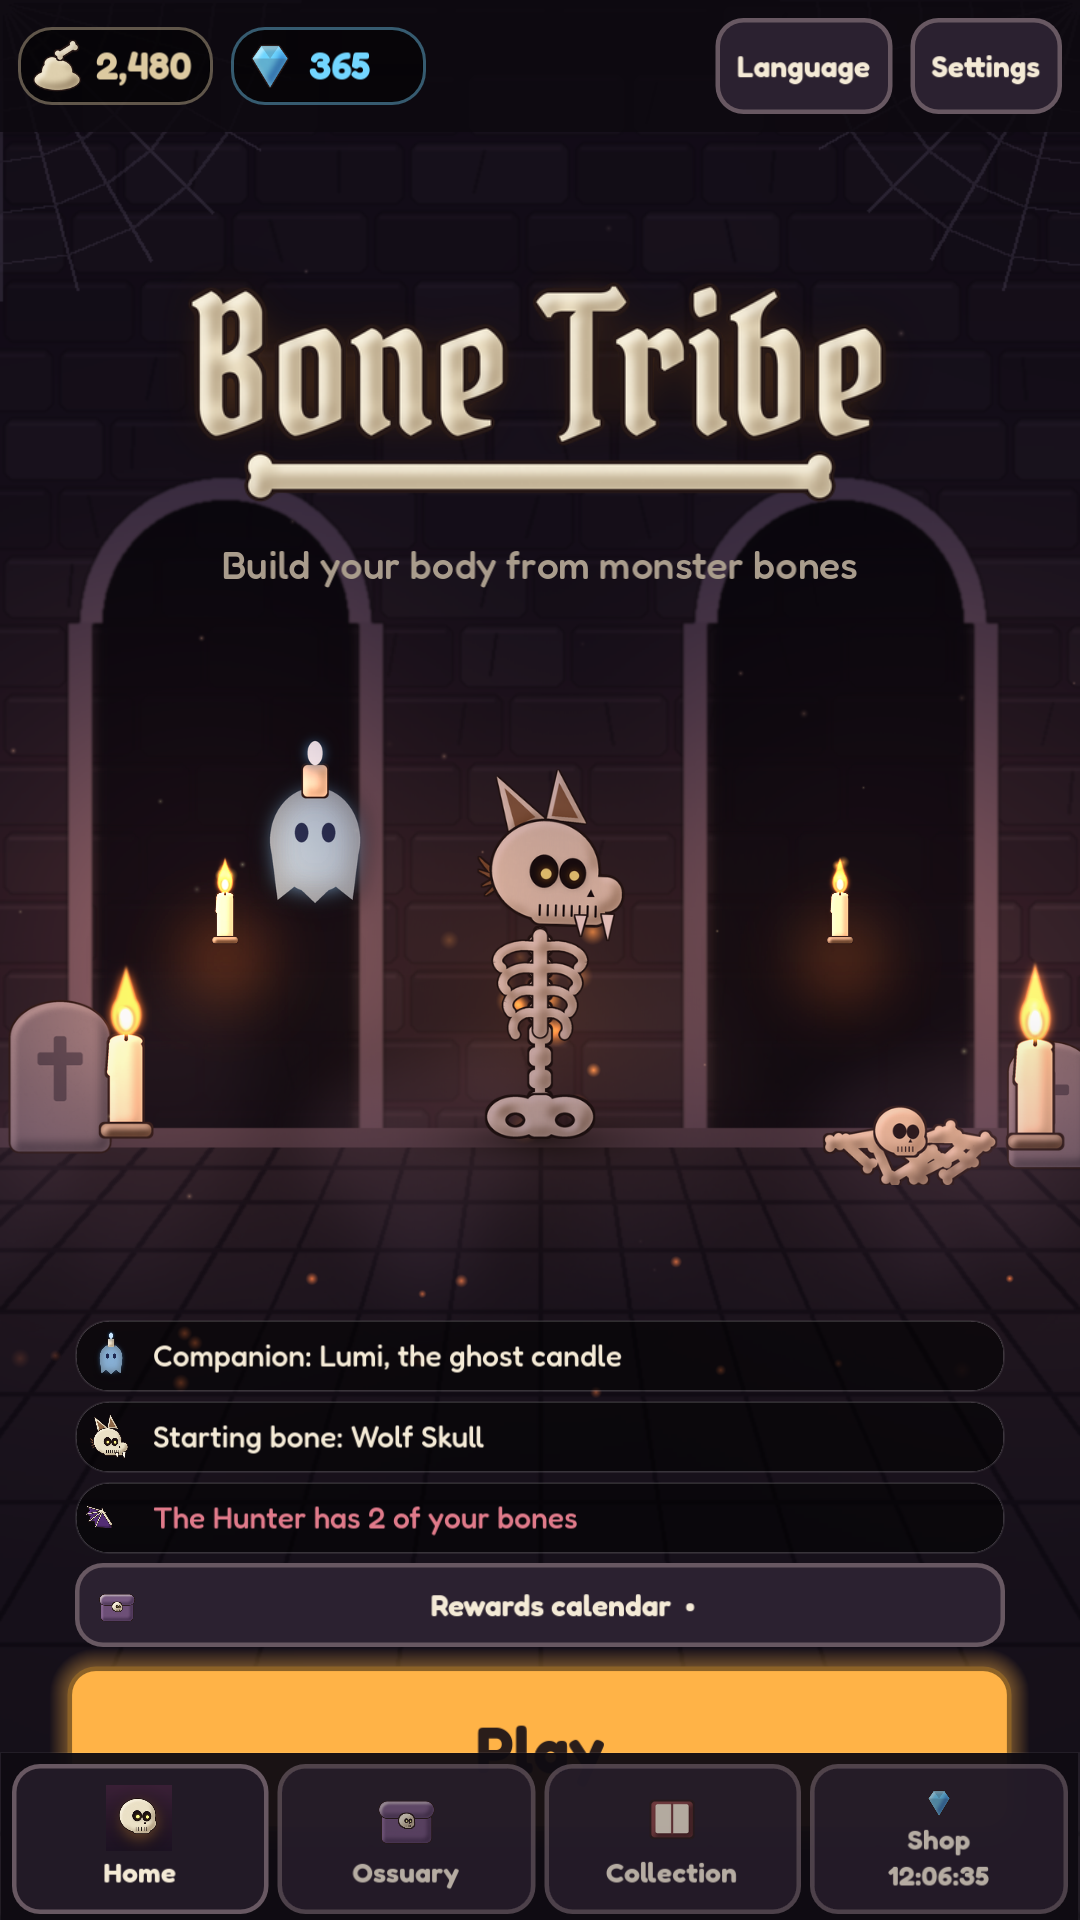
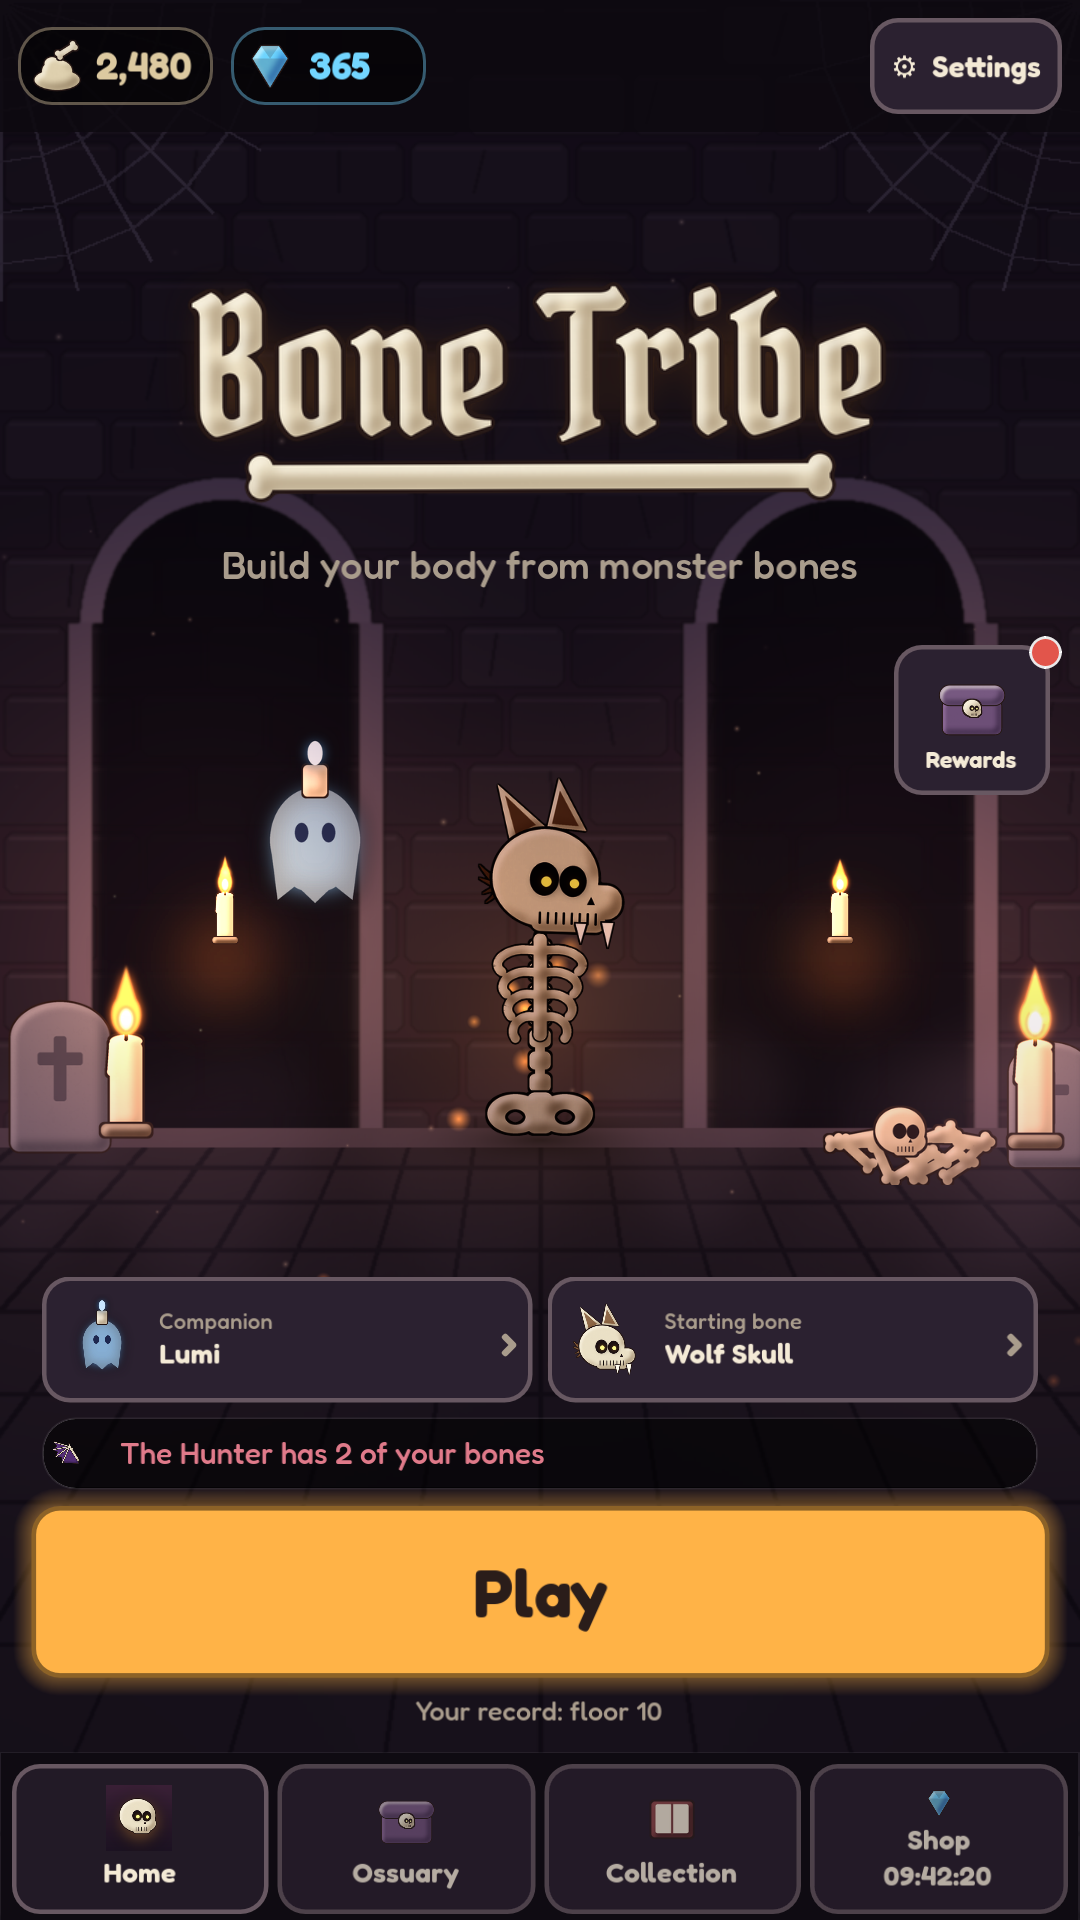
UX: tela inicial reorganizada e painel da partida sem espaços vazios
- Jogar sempre visível acima das abas, com recorde; companheiro e osso
  inicial em cartões tocáveis; calendário em botão flutuante com aviso;
  idioma dentro de Opções.
- Painel da partida cresce na hora (botões nunca cortados), encolhe suave
  e some quando não tem conteúdo.
- Capturas da loja da tela inicial atualizadas.

Claude-Session: https://claude.ai/code/session_01R7KYEBarYjUqJhKP8XiaSS

diff --git a/docs/DECISOES.md b/docs/DECISOES.md
@@ -212,3 +212,8 @@ Resultado da simulação (60 jogadores novos, gastando o pó no Ossuário entre 
 - **Equilíbrio:** os atributos dos ossos novos foram calibrados na simulação (`tests/BalanceSim.tscn`, 40 jogadores x 6 partidas). Na 1ª versão o jogo ficou mais difícil (os ossos novos diluíam os antigos); com +50% nos atributos a curva voltou à de antes: Rei Rato 95%, Golem 85%, Dragão 32% dos jogadores vencem até a 6ª partida.
 - Novas habilidades periódicas: Garra flamejante (fogo), Enxurrada de ratos e Chuva de flechas (atingem todos), Pancada de cauda.
 - Arte (placeholder no estilo do jogo, tamanho e pivô finais) em `tools/art_extra_head.py`, `tools/art_extra_limbs.py` e `tools/art_extra_back.py`, chamada por `tools/gen_art.py bones`.
+
+## Revisão de UX (telas e painéis)
+- **Tela inicial:** o bloco de baixo cresce para cima a partir das abas, então o botão **Jogar** nunca fica escondido (antes ficava cortado atrás da barra de abas). Companheiro e osso inicial viraram dois cartões lado a lado, tocáveis, que abrem o Ossuário e a Coleção. Abaixo do Jogar aparece o recorde ("Seu recorde: andar N") ou um convite na primeira vez. O calendário virou um botão flutuante "Prêmios" com ponto vermelho quando há recompensa. A barra do topo ficou só com as moedas e "⚙ Opções"; o idioma passou a ser o primeiro item de Opções.
+- **Painel da partida:** sem altura mínima grande. Ele cresce na hora quando entra conteúdo (botões nunca cortados) e encolhe suave quando sai; se não há conteúdo (título do andar, transições), o painel some em vez de ficar vazio.
+- Princípios usados: ação principal grande e na zona do polegar; nenhuma área vazia reservada; informação secundária compacta e tocável; um só ponto de configurações; avisos (ponto vermelho) só quando há algo a fazer.
